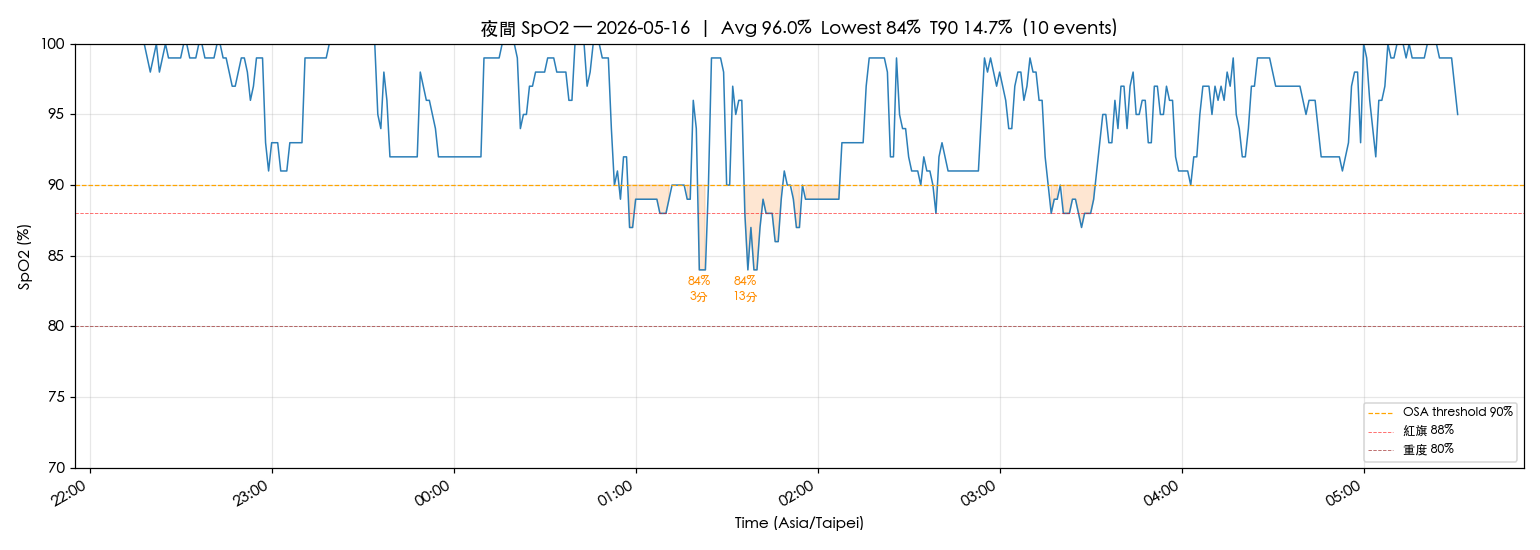
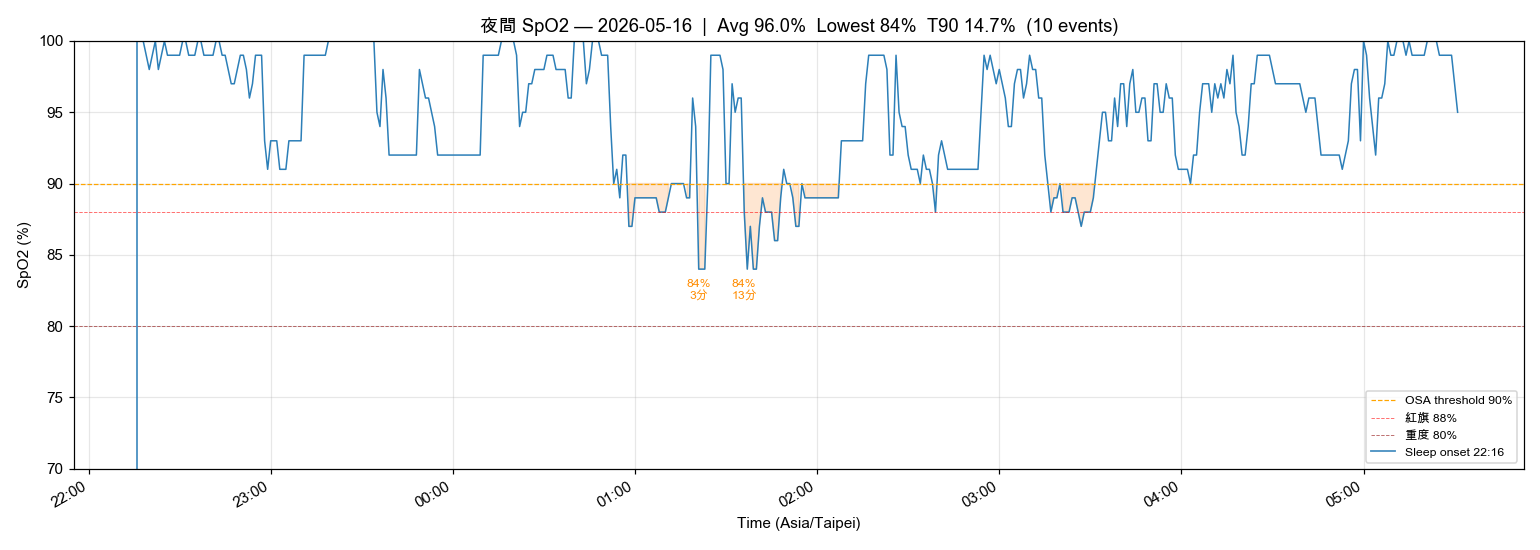
2026-05-19 補入：日月潭旅遊 5/16-5/17 SpO2 + 高閾值 REM-OSA 表型判讀
- 補抓 5/16 (nadir 84%, T90 14.7%) 與 5/17 (nadir 86%, T90 1.6%) Garmin
- 7 晚 SpO2 < 88% 連續紅旗確認，海拔旅遊夜未顯著惡化
- 加入 stage-stratified SpO2：Deep 0% / Light 3.5% / REM 12.5% desat
- HRV 24 ms 14晚新高 + nadir 83% 解耦定位「高閾值 REM-related OSA」
- 嵌入 hypnogram × SpO2 對應圖

diff --git a/reviews/daily/2026-05-19.md b/reviews/daily/2026-05-19.md
@@ -47,10 +47,27 @@
 | 日期 | -6 | -5 | -4 | -3 | -2 | -1 | 今晨 |
 |------|----|----|----|----|----|----|------|
 | 日期 | 05-13 | 05-14 | 05-15 | 05-16 | 05-17 | 05-18 | 05-19 |
-| 最低 % | 82 | 84 | 83 | — | — | 87 | 83 |
+| 最低 % | 82 | 84 | 83 | 84 | 86 | 87 | 83 |
+| T90 % | 9.1 | 9.0 | 12.1 | 14.7 | 1.6 | 2.2 | 4.0 |
+
+*5/16-5/17 為日月潭家庭旅遊夜（海拔 ~750m），補抓 Garmin 資料。*
 
 **今晨日均 SpO2：** 96%
-**< 88% 連續晚數：** ≥ 14（5/13–5/19 有資料 5 晚全部 < 88%；OSA 紅旗門檻已超 4 倍）
+**< 88% 連續晚數：** ≥ 14（5/13–5/19 連續 7 晚全部 < 88%；OSA 紅旗門檻已超 4 倍）
+
+### 7 晚 stage-stratified SpO2 + HRV 同步分析（2026-05-19）
+
+| 階段 | Epoch 數 | 均值 | 最低 | < 90% 比例 |
+|------|----------|------|------|------------|
+| Deep（深眠） | 62 | 96.6% | 90% | 0.0% |
+| Light（淺眠） | 198 | 97.4% | 83% | 3.5% |
+| **REM** | **40** | **93.5%** | **85%** | **12.5%** |
+
+**HRV：24 ms（14 晚新高，baseline 18-20 ms，+20%）**；HRV ↑ + SpO2 nadir 83% 解耦 → **高閾值 REM-related OSA 表型**（缺氧但不引起 cortical arousal，自主神經池仍可恢復；主觀「睡得 OK」與客觀缺氧並存）。
+
+**OSA 表型判讀**：Deep 期 0% desat（無解剖性永久狹窄）+ REM 期 12.5% desat（neuromuscular 主導）+ 高 arousal threshold → CPAP 順應性預期極佳（> 80% 反應率）。PSG 預約時請醫師特別計算 **REM AHI vs NREM AHI 比值**與 **arousal index**。
+
+**睡眠分期 × SpO2 對應圖：** ![](spo2/spo2_hypnogram_2026-05-19.png)
 
 **SpO2 全夜圖：** ![](spo2/spo2_desat_2026-05-19.png)
 **SpO2 趨勢圖：** ![](spo2/spo2_desat_trend.png)
@@ -103,7 +120,7 @@
 ### 💡 PT 建議
 
 1. **體重三項齊升（5/15 → 5/19）**：67.3 → 68.6 kg（+1.3 kg）/ 體脂 19.5 → 19.6% / VFL 9.0 → 9.5 — 5/16-5/18 空窗期反彈明顯，週末未控制是主因；本週六 5/23 為下一正式紀錄點，今日起回到「飯減半 + 餐後散步」雙錨點。
-2. **OSA 第 14 晚以上紅旗 + TST 5h 1m 雙警**：SpO2 nadir 83% 連續未改善 + 起床過早（03:42）導致 TST 嚴重不足；PSG 預約若尚未完成，本週剩餘 4 個工作日內必須敲定 — 此為當前所有指標中最高優先級。
+2. **OSA 第 14 晚以上紅旗 + 表型確認**：SpO2 nadir 83% 連 7 晚 < 88%（含日月潭海拔夜 5/16 nadir 84% 與返家 5/17 nadir 86%），HRV ↑ + 缺氧解耦定位為**高閾值 REM-related OSA**；PSG 預約若尚未完成，本週剩餘 4 個工作日內必須敲定 — 此為當前所有指標中最高優先級。CPAP 預期反應率 > 80%。
 3. **血壓今日未測**：請至少明日（5/20）恢復連續紀錄，週二是 weekly trend 校準的中段關鍵點。
 4. **昨日飲水 1.5L 偏低**：今日 09:30 必達 1.0L 為硬指標，13:30 ≥ 2.0L 為第二錨點；高尿酸 baseline 加上夜間 SpO2 desats（缺氧增加 UA 生成）使飲水成為僅次於 OSA 的核心變數。
 5. **身體信號清 + 主觀恢復 3/5**：客觀數據（Sleep Score 64 / BB 62）與主觀感受對齊，但 5h 1m TST 在「沒中醒」前提下仍只能達到 3/5 — 系統性訊號指向 OSA 通氣品質才是天花板。

diff --git a/reports/daily-garmin/2026-05-17.md b/reports/daily-garmin/2026-05-17.md
@@ -1,0 +1,28 @@
+# Garmin 每日摘要 — 2026-05-17
+
+## 睡眠
+- 就寢：00:41｜起床：05:49
+- 總時長：5h 1m
+- 深眠：34 分｜REM：56 分
+- Sleep Score：61
+- Body Battery 起床值：47
+- 估算上床：00:18｜入睡 latency：23 分（範圍 23–41 分）
+
+## 靜息心率
+- RHR：58.0 bpm
+
+## 壓力
+- 日均：31
+
+## 步數
+- 總計：8,065
+
+## SpO2
+- 日均：97.0%
+- 最低：86%
+
+## 飲水
+- 實際：— （Garmin Connect 未紀錄，請於 check-in 手動輸入）
+- 目標：2.00 L
+
+_Source: data/garmin/2026-05-17.json (gitignored)_

diff --git a/reports/daily-garmin/2026-05-16.md b/reports/daily-garmin/2026-05-16.md
@@ -1,0 +1,27 @@
+# Garmin 每日摘要 — 2026-05-16
+
+## 睡眠
+- 就寢：22:16｜起床：05:31
+- 總時長：6h 39m
+- 深眠：119 分｜REM：62 分
+- Sleep Score：74
+- Body Battery 起床值：63
+
+## 靜息心率
+- RHR：57.0 bpm
+
+## 壓力
+- 日均：33
+
+## 步數
+- 總計：11,884
+
+## SpO2
+- 日均：95.0%
+- 最低：84%
+
+## 飲水
+- 實際：— （Garmin Connect 未紀錄，請於 check-in 手動輸入）
+- 目標：2.00 L
+
+_Source: data/garmin/2026-05-16.json (gitignored)_
